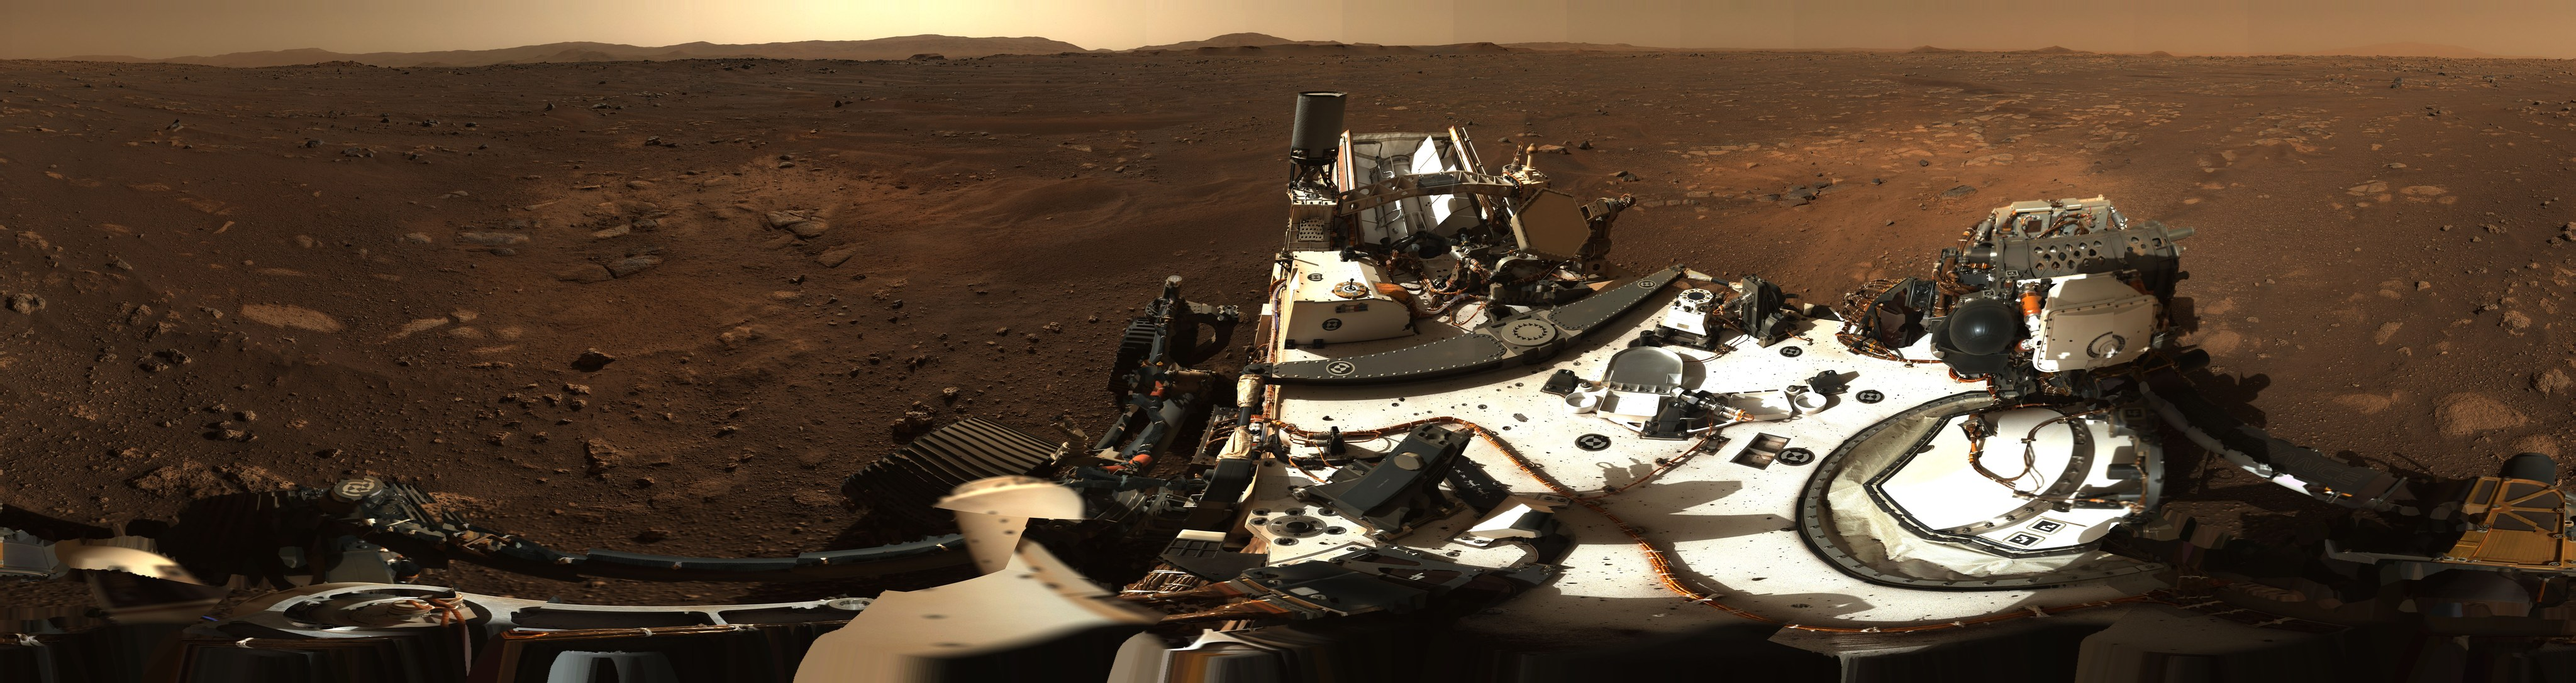
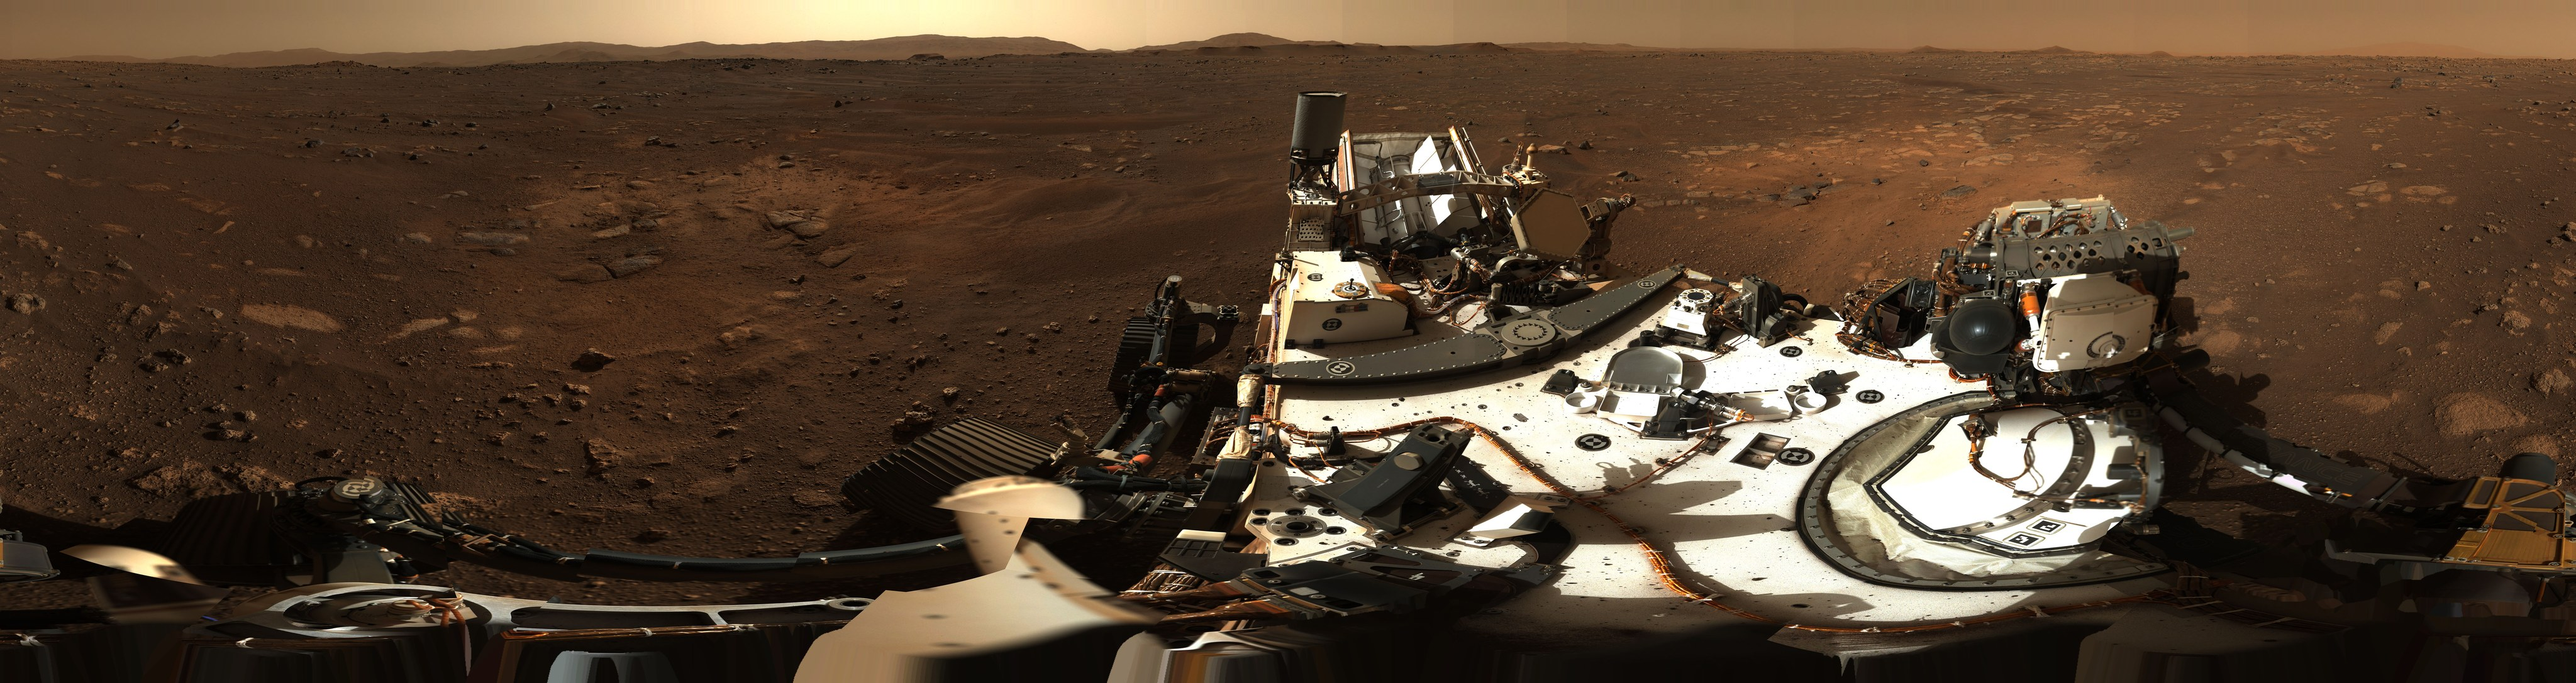
M8c del 1: masken regner rundt om sømmen, og dybe skygger er ikke huller
Kun sorte områder ved fotoets øverste eller nederste kant er uden data. Status og prompt til M8c del 2 i plan-mars.md.

Claude-Session: https://claude.ai/code/session_01VDmQu9F4xmEnQoFT9EAT8v

diff --git a/billeder/solsystem/lav_panorama.py b/billeder/solsystem/lav_panorama.py
@@ -46,6 +46,13 @@ orig = next((a[5:] for a in sys.argv[2:] if a.startswith('orig=')), '.')
 os.makedirs(ud, exist_ok=True)
 
 
+def træk_ind(a, n, P=64):
+    # Trækker kanten af data n pixel ind. Rundt om sømmen i siderne (fotoet går hele vejen rundt), men over og under
+    # fotoet er der intet, så dér trækkes den ind
+    b = np.pad(np.pad(a, ((0, 0), (P, P)), mode='wrap'), ((P, P), (0, 0)), constant_values=False)
+    return ndimage.binary_erosion(b, iterations=n, border_value=1)[P:-P, P:-P]
+
+
 for id_, f in FOTOS.items():
     sti = os.path.join(orig, f['fil'])
     if not os.path.exists(sti):
@@ -59,8 +66,21 @@ for id_, f in FOTOS.items():
     # ind, så den mørke rand ved det sorte ikke kommer med
     s = max(1, W // 4096)
     lille = np.asarray(im.resize((W // s, H // s), Image.BILINEAR))
-    data = ndimage.binary_opening(lille.max(2) > MØRK, iterations=2)
-    data = ndimage.binary_erosion(data, iterations=3)
+    # Fotoet går hele vejen rundt: Masken regnes med et stykke af den anden ende på hver side (ellers æder den sig ind
+    # fra venstre og højre kant og giver en stribe i sømmen)
+    P = 64
+    mørk = np.pad(lille.max(2) <= MØRK, ((0, 0), (P, P)), mode='wrap')
+    data = ndimage.binary_opening(~mørk, iterations=2)
+    # Mørke skygger (mellem klipperne og under roveren) er også næsten sorte. Kun sorte områder, der rører fotoets
+    # øverste eller nederste kant, er uden data (det gælder alle huller i begge fotos). De andre fyldes ud (før skinnede
+    # det tegnede landskab igennem)
+    huller, n = ndimage.label(~data)
+    kant = np.unique(np.concatenate([huller[0], huller[-1]]))
+    ude = np.zeros(n + 1, bool)
+    ude[kant] = True
+    ude[0] = False
+    data = ~ude[huller]
+    data = træk_ind(data[:, P:-P], 3)
     # Fyld uden for data med den nærmeste pixel med data, så fotoet ikke får en sort rand, når det toner ud
     a = np.asarray(im)
     nær = ndimage.distance_transform_edt(~data, return_distances=False, return_indices=True)
@@ -71,7 +91,7 @@ for id_, f in FOTOS.items():
     mb = MASKE_BREDDE
     mh = round(H * mb / W)
     maske = np.asarray(Image.fromarray((data * 255).astype(np.uint8)).resize((mb, mh), Image.BILINEAR)).astype(np.float32) / 255
-    maske = ndimage.binary_erosion(maske > 0.5, iterations=max(1, round(TONING * mb / 360 / 2))).astype(np.float32)
+    maske = træk_ind(maske > 0.5, max(1, round(TONING * mb / 360 / 2))).astype(np.float32)
     maske = ndimage.gaussian_filter(maske, TONING * mb / 360 / 2.5, mode=('nearest', 'wrap'))
     Image.fromarray(np.clip(maske * 255 + 0.5, 0, 255).astype(np.uint8), 'L').save(os.path.join(ud, f'pano-{id_}-maske.png'), optimize=True)
     for navn, bredde in BREDDER.items():

diff --git a/docs/erfaringer.md b/docs/erfaringer.md
@@ -464,7 +464,7 @@ Fra den store gennemgang i oktober 2026 (se [gennemgang-2026-10.md](gennemgang-2
 - **Et panorama kan følge roverens ramme og ikke være vandret.** Perseverances foto hælder ca. 1,2° med roveren. Det ses som en bølge i horisontens række rundt om fotoet. Brug roverens hældning (kvaternionen i API'et) i stedet for at rette det i billedet.
 - **NASA's API over rå billeder ligger på `mars.nasa.gov`.** `mars.jpl.nasa.gov` var blokeret, men samme filer ligger under `mars.nasa.gov/msl-raw-images/…`. Billedernes tid (UTC) og Mars24-formlerne giver den lokale soltid og Solens plads.
 - **Tonemapping ændrer et foto.** Efterbehandlingen (ACES og eksponeringen) gælder alt, også et foto. Send fotoet gennem den omvendte kurve i shaderen, så vises det med sine egne farver uden at skifte tonemapping (det ville oversætte alle shaderne igen).
-- **En maske pr. søjle er ikke nok:** Panoramaer har sorte huller inde i billedet (mellem billederne ved roverens dæk). En lille, blød maske i 2D klarer både kanterne og hullerne, og det sorte fyldes med den nærmeste pixel med data, så der ikke kommer en mørk rand, når fotoet toner ud.
+- **En maske af et foto: "sort" er ikke det samme som "uden data".** Dybe skygger (mellem klipperne og under roveren) er også næsten sorte, så det tegnede landskab skinnede igennem som orange pletter (set i prøvebillederne, ikke i testen). Kun sorte områder, der rører fotoets øverste eller nederste kant, er uden data. Og et foto, der går hele vejen rundt, skal regnes rundt om sømmen (`np.pad(…, mode='wrap')`), ellers æder masken sig ind fra venstre og højre kant og giver en lodret stribe. Se på selve masken som billede, før den bruges.
 - **Tjek, at en kilde handler om det rigtige billede.** En side om "natural color" handlede om et andet panorama fra samme sted (PIA23727, sol 4) end det, vi bruger (PIA24264, sol 3). Begge er fra Mastcam-Z og ligner hinanden.
 - **Sol tælles fra 0.** "Sol 3" er tre døgn efter landingen, ikke det tredje døgn (NASA skriver selv begge dele).
 
